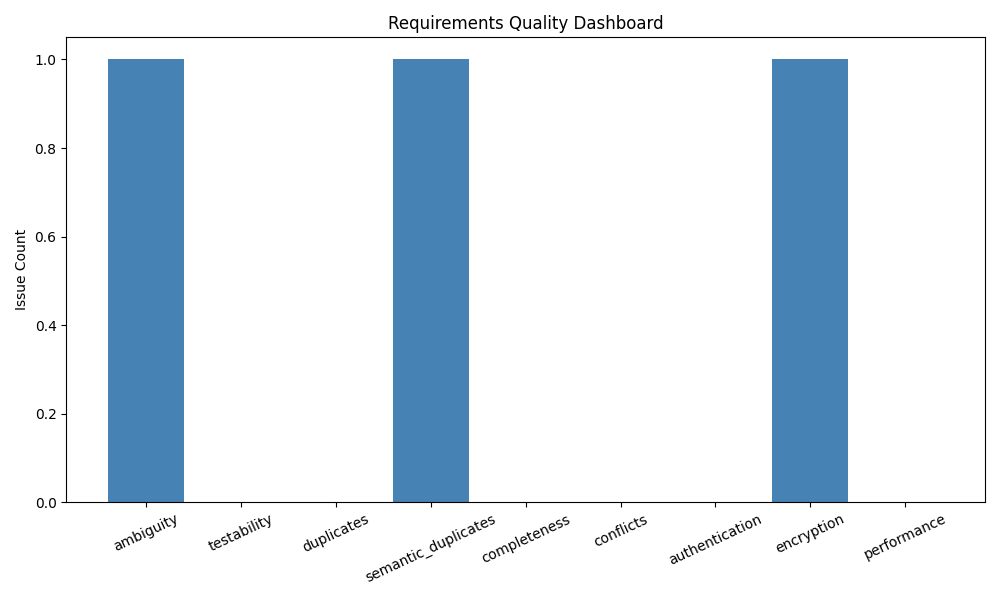
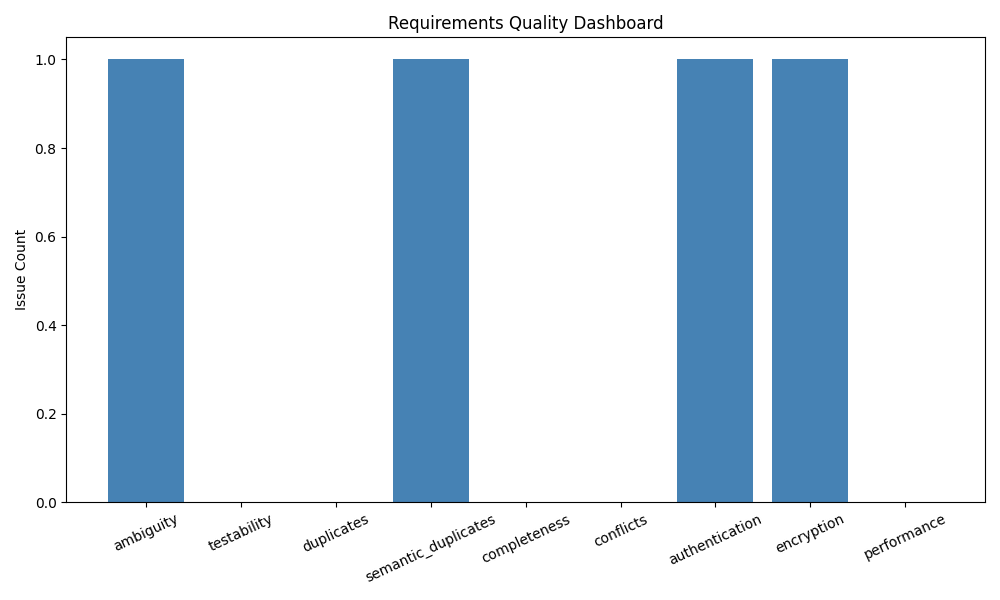
streamlit deploy

Changed region(s): [[0.651, 0.09, 0.775, 0.84]]

diff --git a/app.py b/app.py
@@ -1,81 +1,112 @@
-from flask import Flask, render_template, request, jsonify, session, send_file
-import os
+import streamlit as st
 from datetime import datetime
-import markdown2
-import logging
+import os
 
 from requirement_engine import analyze_requirements
 
-app = Flask(__name__)
-app.secret_key = os.urandom(24)
-
-logging.basicConfig(level=logging.INFO)
-
 os.makedirs("logs", exist_ok=True)
 
-@app.route("/")
-def home():
-    session["conversation_id"] = datetime.now().strftime("%Y%m%d_%H%M%S")
-    return render_template("index_req.html")
+st.set_page_config(
+    page_title="Requirements Analyzer",
+    layout="wide"
+)
 
+st.title("Requirements Analyzer")
 
-@app.route("/reason", methods=["POST"])
-def reason():
+st.write(
+    "Analyze requirements for conflicts, ambiguity, "
+    "performance constraints, and response time issues."
+)
+
+requirements_text = st.text_area(
+    "Enter Requirements (one per line)",
+    height=300
+)
+
+threshold = st.slider(
+    "Satisfaction Threshold",
+    min_value=0.0,
+    max_value=1.0,
+    value=0.8,
+    step=0.05
+)
+
+if st.button("Analyze Requirements"):
+
+    requirements = [
+        r.strip()
+        for r in requirements_text.splitlines()
+        if r.strip()
+    ]
+
+    if not requirements:
+        st.error("Please enter at least one requirement.")
+        st.stop()
+
     try:
-        data = request.json
-
-        requirements = data.get("requirements", [])
-        threshold = float(data.get("threshold", 0.80))
-
-        if not requirements:
-            return jsonify({"error": "No requirements supplied"}), 400
-
         result = analyze_requirements(requirements)
 
-        conversation_id = session.get(
-            "conversation_id",
-            datetime.now().strftime("%Y%m%d_%H%M%S")
+        conversation_id = datetime.now().strftime(
+            "%Y%m%d_%H%M%S"
         )
 
         log_file = f"logs/conversation_{conversation_id}.md"
 
         with open(log_file, "w", encoding="utf-8") as f:
+
             f.write("# Requirement Analysis\n\n")
 
-            for r in requirements:
-                f.write(f"- {r}\n")
+            for req in requirements:
+                f.write(f"- {req}\n")
 
-            f.write(f"\n## Satisfaction Score\n{result['satisfaction']}\n\n")
+            f.write(
+                f"\n## Satisfaction Score\n"
+                f"{result['satisfaction']}\n\n"
+            )
 
-            for category, items in result["issues"].items():
-                f.write(f"### {category}\n")
-                for item in items:
-                    f.write(f"- {item}\n")
+            for category, issues in result["issues"].items():
+                f.write(f"\n### {category}\n")
+
+                for issue in issues:
+                    f.write(f"- {issue}\n")
+
+        st.subheader("Analysis Results")
+
+        st.metric(
+            "Satisfaction Score",
+            f"{result['satisfaction']:.2f}"
+        )
+
+        if result["satisfaction"] >= threshold:
+            st.success("Requirements pass threshold.")
+        else:
+            st.warning("Requirements below threshold.")
+
+        for category, issues in result["issues"].items():
+
+            st.markdown(f"### {category}")
+
+            if issues:
+                for issue in issues:
+                    st.write(f"• {issue}")
+            else:
+                st.write("No issues detected.")
+
+        st.markdown("---")
+        st.subheader("Generated Report")
 
         with open(log_file, "r", encoding="utf-8") as f:
-            html_content = markdown2.markdown(f.read())
+            markdown_content = f.read()
 
-        return jsonify({
-            "issues": result["issues"],
-            "satisfaction_level": result["satisfaction"],
-            "satisfactory": result["satisfaction"] >= threshold,
-            "log_content": html_content,
-            "log_file": log_file
-        })
+        st.markdown(markdown_content)
+
+        with open(log_file, "rb") as f:
+            st.download_button(
+                label="Download Report",
+                data=f.read(),
+                file_name=os.path.basename(log_file),
+                mime="text/markdown"
+            )
 
     except Exception as e:
-        return jsonify({"error": str(e)}), 500
-
-
-@app.route("/download-log")
-def download_log():
-    file = request.args.get("file")
-
-    if not file or not os.path.exists(file):
-        return "File not found", 404
-
-    return send_file(file, as_attachment=True)
-
-
-if __name__ == "__main__":
-    app.run(debug=True, port=5050)
+        st.error(f"Analysis failed: {e}")

diff --git a/logs/conversation_20260710_084143.md b/logs/conversation_20260710_084143.md
@@ -1,0 +1,44 @@
+# Requirement Analysis
+
+- REQ-MC-001 - The motor controller shall start the motor within 100 ms of receiving a valid START command.
+- REQ-MC-002 - The motor controller shall stop the motor within 50 ms of receiving a valid STOP command.
+- REQ-MC-003 - The motor controller shall maintain motor speed at the commanded value ±2% under normal operating conditions.
+- REQ-MC-004 - The motor controller shall update the PWM output at a minimum frequency of 20 kHz.
+- REQ-MC-005 - The motor controller shall execute the speed control loop every 1 ms with a maximum jitter of 100 µs.
+- REQ-MC-006 - The motor controller shall achieve a commanded speed change from 0 RPM to 3000 RPM in less than 200 ms.
+- REQ-MC-007 - The motor controller shall detect an overcurrent condition and disable motor power within 10 ms.
+- REQ-MC-008 - The motor controller shall report a fault condition to the supervisory controller within 20 ms of fault detection.
+- REQ-MC-009 - The motor controller shall acknowledge all communication messages within 5 ms of receipt.
+- REQ-MC-010 - The motor controller shall accelerate the motor from 0 RPM to 3000 RPM within 100 ms.
+- REQ-MC-011 - The motor controller shall limit acceleration to 10,000 RPM/s to prevent mechanical stress.
+- REQ-MC-012 - The motor controller shall enter a low-power mode within 5 ms of motor shutdown.
+- REQ-MC-013 - The motor controller shall continue transmitting motor status messages every 1 ms for 100 ms after shutdown.
+- REQ-MC-014 - The motor controller shall respond quickly to user commands.
+
+## Satisfaction Score
+0.8
+
+
+### ambiguity
+- Ambiguous wording detected: 'REQ-MC-014 - The motor controller shall respond quickly to user commands.' (quick)
+
+### testability
+
+### duplicates
+
+### semantic_duplicates
+- Possible semantic duplicate:
+'REQ-MC-006 - The motor controller shall achieve a commanded speed change from 0 RPM to 3000 RPM in less than 200 ms.'
+'REQ-MC-010 - The motor controller shall accelerate the motor from 0 RPM to 3000 RPM within 100 ms.'
+
+### completeness
+
+### conflicts
+
+### authentication
+- No authentication requirement detected.
+
+### encryption
+- No encryption requirement detected.
+
+### performance
